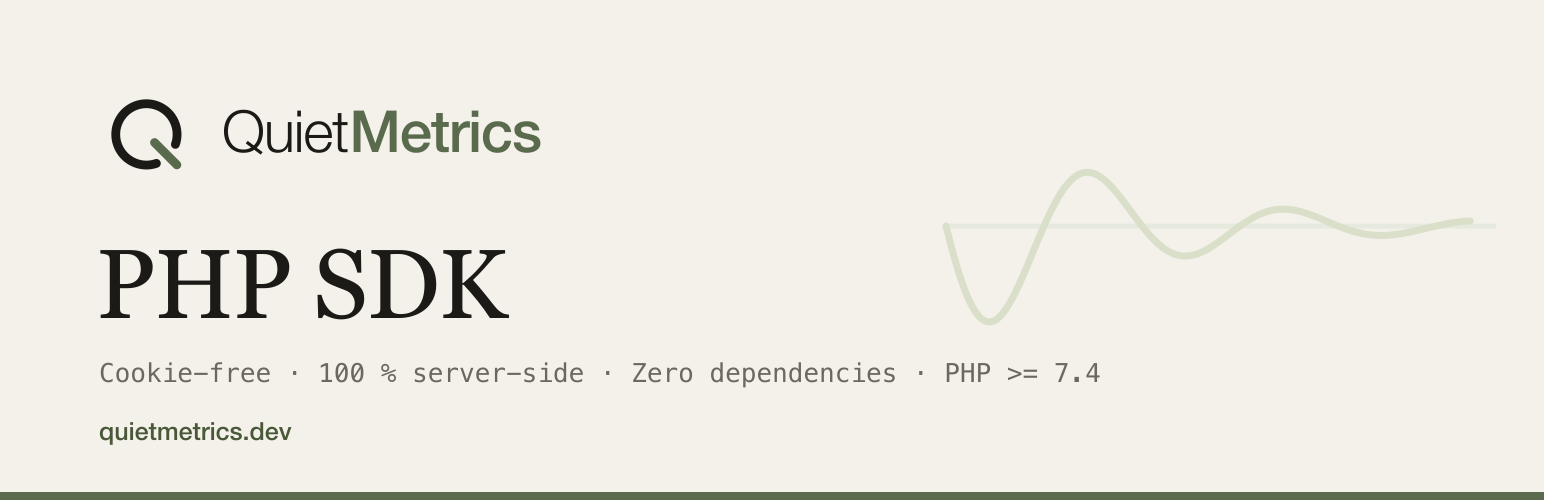
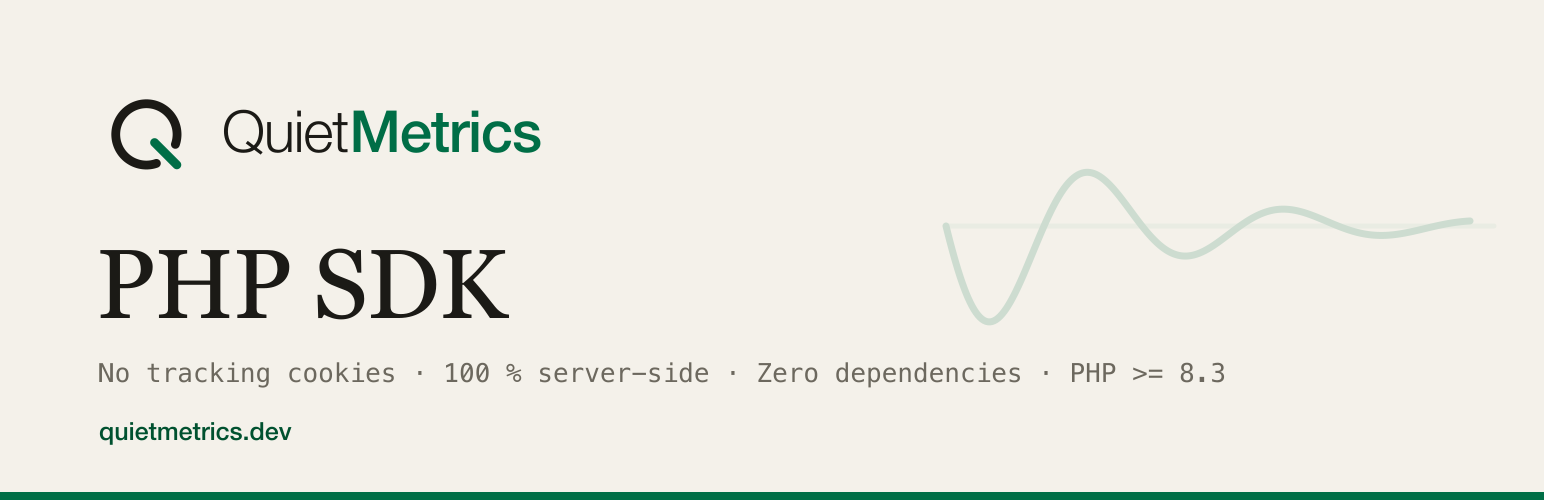
chore(paquets): PHP 8.3 minimum pour les paquets PHP et le plugin WordPress
Décision du 24/10/2026 : ne supporter que les versions de PHP encore
maintenues en sécurité (8.1 hors support depuis le 31/12/2025, 8.2 le
31/12/2026). Livré dans la 0.7.0 non publiée.

- php-metrics, laravel-metrics, symfony-metrics : "php": ">=8.3" ; les
  ponts exigent php-metrics ^0.7. Laravel 10 à 13 et Symfony 6.4/7.x
  gardés, tous tournent sur 8.3.
- Plugin WordPress : Requires PHP 8.3, et un garde qui laisse le plugin
  inactif avec un avertissement d'administration sous 8.3.
- Client : str_contains et plus de curl_close (sans effet depuis PHP 8) ;
  PHPUnit 10.5 à 12, annotations PHPUnit 9 retirées des tests.
- Documentation, changelogs, bannière du paquet php régénérée.
- VersionDuPluginWordPressTest tient le plancher aligné entre l'en-tête,
  readme.txt, le garde et le composer.json du paquet php.

diff --git a/src/Client.php b/src/Client.php
@@ -8,7 +8,7 @@ namespace QuietMetrics;
  * Client de collecte Quiet Metrics : tracking 100 % côté serveur,
  * sans cookie d'identification ni de traçabilité.
  *
- * Compatible PHP >= 7.4, zéro dépendance (adoption maximale : mutualisés,
+ * Compatible PHP >= 8.3, zéro dépendance (adoption maximale : mutualisés,
  * WordPress, vieux projets). Spec du payload : docs/05-api-et-sdk.md.
  *
  * Contrat : ne JAMAIS casser le site hôte. Tout échec est silencieux,
@@ -363,14 +363,8 @@ final class Client implements Tracker
             if ($value === null) {
                 continue;
             }
-            // `strpos` et non `str_contains` : ce fichier tient un contrat
-            // « PHP >= 7.4 » (mutualisés, WordPress, vieux projets) et
-            // `str_contains` est arrivé en 8.0. L'écart aurait été MUET :
-            // `send()` avale tout dans un `catch (\Throwable)`, donc un
-            // « Call to undefined function » y aurait simplement arrêté toute
-            // émission, sans erreur visible nulle part.
             $value = strtolower($value);
-            if (strpos($value, 'prefetch') !== false || strpos($value, 'prerender') !== false) {
+            if (str_contains($value, 'prefetch') || str_contains($value, 'prerender')) {
                 return true;
             }
         }
@@ -765,8 +759,5 @@ final class Client implements Tracker
             CURLOPT_NOSIGNAL => true,
         ]);
         @curl_exec($ch);
-        if (PHP_VERSION_ID < 80000) {
-            curl_close($ch); // sans effet et déprécié depuis PHP 8 (handle objet, libéré par le GC)
-        }
     }
 }

diff --git a/tests/ClientTest.php b/tests/ClientTest.php
@@ -116,8 +116,6 @@ final class ClientTest extends TestCase
      * fabriquait une page vue et parfois un visiteur, invisibles pour un
      * traceur JS puisque la page préchargée n'est pas activée. Le navigateur
      * l'annonce, il suffisait de le lire.
-     *
-     * @dataProvider annoncesDePrechargement
      */
     #[DataProvider('annoncesDePrechargement')]
     public function test_un_prechargement_annonce_n_envoie_aucune_page_vue(string $entete, string $valeur): void
@@ -362,8 +360,6 @@ final class ClientTest extends TestCase
      * Traiter la seule PRESENCE du cookie comme un refus ferait disparaitre
      * des visites reelles : `qm_ignore=0` est justement la trace laissee par
      * un retrait, et un cookie vide est ce que renvoient certains proxys.
-     *
-     * @dataProvider marqueursQuiNExcluentPas
      */
     #[DataProvider('marqueursQuiNExcluentPas')]
     public function test_un_marqueur_qui_ne_vaut_pas_un_laisse_partir_la_page_vue(string $valeur): void
@@ -507,8 +503,6 @@ final class ClientTest extends TestCase
      * Se contenter de la PRESENCE du cookie ferait passer pour une visite
      * continue tout ce qu'un intermediaire laisse trainer sous ce nom, et
      * fusionnerait alors deux personnes en une.
-     *
-     * @dataProvider cookiesQuiNOuvrentPasDeVisite
      */
     #[DataProvider('cookiesQuiNOuvrentPasDeVisite')]
     public function test_un_cookie_de_visite_qui_ne_vaut_pas_un_n_ouvre_rien(string $valeur): void

diff --git a/examples/qm-proxy.php b/examples/qm-proxy.php
@@ -2,7 +2,7 @@
 
 /**
  * Quiet Metrics, proxy first-party anti-adblock : fichier unique à
- * déposer à la racine du site client (aucune dépendance, PHP >= 7.4).
+ * déposer à la racine du site client (aucune dépendance, PHP >= 8.3).
  *
  * Le navigateur n'appelle QUE le domaine du site : les listes de blocage par
  * domaine (EasyPrivacy…) ne voient jamais notre endpoint. Le proxy injecte
@@ -76,9 +76,6 @@ if (function_exists('curl_init') && ($ch = curl_init(QM_ENDPOINT)) !== false) {
         CURLOPT_NOSIGNAL => true,
     ]);
     @curl_exec($ch);
-    if (PHP_VERSION_ID < 80000) {
-        curl_close($ch); // sans effet et déprécié depuis PHP 8 (handle objet, libéré par le GC)
-    }
 }
 
 http_response_code(202);

diff --git a/tests/MinimizationTest.php b/tests/MinimizationTest.php
@@ -37,7 +37,6 @@ final class MinimizationTest extends TestCase
         ];
     }
 
-    /** @dataProvider urls */
     #[DataProvider('urls')]
     public function test_l_url_ne_garde_que_ce_que_la_plateforme_lit(string $url, ?string $expected): void
     {
@@ -58,7 +57,6 @@ final class MinimizationTest extends TestCase
         ];
     }
 
-    /** @dataProvider referrers */
     #[DataProvider('referrers')]
     public function test_le_referent_se_reduit_a_son_origine(?string $referrer, ?string $expected): void
     {

diff --git a/tests/HtmlPageResponseTest.php b/tests/HtmlPageResponseTest.php
@@ -32,7 +32,6 @@ final class HtmlPageResponseTest extends TestCase
         ];
     }
 
-    /** @dataProvider responses */
     #[DataProvider('responses')]
     public function test_only_rendered_html_documents_are_pages(string $method, int $status, ?string $type, ?string $disposition, bool $expected): void
     {

diff --git a/tests/SiteVerificationTest.php b/tests/SiteVerificationTest.php
@@ -151,7 +151,6 @@ final class SiteVerificationTest extends TestCase
         ];
     }
 
-    /** @dataProvider requestsThatAreNotServed */
     #[DataProvider('requestsThatAreNotServed')]
     public function test_any_other_request_is_left_alone(string $method, string $uri): void
     {

diff --git a/README.fr.md b/README.fr.md
@@ -4,7 +4,7 @@
 
 > 🇬🇧 [English version](README.md)
 
-SDK PHP pur de [Quiet Metrics](https://quietmetrics.dev) (QuietSystems) : mesure d'audience sans cookie d'identification ni de traçabilité, envoyée à 100 % depuis votre serveur, donc invisible pour les adblockers. Zéro dépendance, compatible PHP >= 7.4 (mutualisés et WordPress inclus).
+SDK PHP pur de [Quiet Metrics](https://quietmetrics.dev) (QuietSystems) : mesure d'audience sans cookie d'identification ni de traçabilité, envoyée à 100 % depuis votre serveur, donc invisible pour les adblockers. Zéro dépendance, compatible PHP >= 8.3.
 
 C'est aussi la fondation des ponts framework : [`quiet-metrics/laravel-metrics`](https://github.com/Quiet-Metrics/laravel-metrics) et [`quiet-metrics/symfony-metrics`](https://github.com/Quiet-Metrics/symfony-metrics) dépendent de ce package.
 
@@ -144,7 +144,7 @@ if ($qm->serveSiteVerification()) {
 - **Non bloquant** : socket « write-and-forget » (environ 1 ms perçu par la page), repli cURL avec timeout de 400 ms si les sockets sortants sont désactivés.
 - **Jamais d'exception** : tout échec (endpoint injoignable, payload trop gros, contexte absent) est silencieux. L'analytics ne casse jamais le site hôte.
 
-Compatibilité : PHP >= 7.4, extension `ext-json` uniquement (`ext-curl` suggérée pour le transport de repli). Tests : `composer test` (PHPUnit contre un vrai serveur HTTP de capture, voir `tests/`).
+Compatibilité : PHP >= 8.3, extension `ext-json` uniquement (`ext-curl` suggérée pour le transport de repli). Tests : `composer test` (PHPUnit contre un vrai serveur HTTP de capture, voir `tests/`).
 
 ## Licence
 

diff --git a/README.md b/README.md
@@ -4,7 +4,7 @@
 
 > 🇫🇷 [Version française](README.fr.md)
 
-Plain-PHP SDK for [Quiet Metrics](https://quietmetrics.dev) (QuietSystems): audience measurement with no identification or tracking cookies, sent 100% from your server, hence invisible to ad blockers. Zero dependencies, compatible with PHP >= 7.4 (shared hosting and WordPress included).
+Plain-PHP SDK for [Quiet Metrics](https://quietmetrics.dev) (QuietSystems): audience measurement with no identification or tracking cookies, sent 100% from your server, hence invisible to ad blockers. Zero dependencies, compatible with PHP >= 8.3.
 
 It is also the foundation of the framework bridges: [`quiet-metrics/laravel-metrics`](https://github.com/Quiet-Metrics/laravel-metrics) and [`quiet-metrics/symfony-metrics`](https://github.com/Quiet-Metrics/symfony-metrics) depend on this package.
 
@@ -144,7 +144,7 @@ if ($qm->serveSiteVerification()) {
 - **Non-blocking**: "write-and-forget" socket (about 1 ms as perceived by the page), cURL fallback with a 400 ms timeout when outgoing sockets are disabled.
 - **Never throws**: every failure (unreachable endpoint, oversized payload, missing context) is silent. Analytics never breaks the host site.
 
-Compatibility: PHP >= 7.4, `ext-json` only (`ext-curl` suggested for the fallback transport). Tests: `composer test` (PHPUnit against a real HTTP capture server, see `tests/`).
+Compatibility: PHP >= 8.3, `ext-json` only (`ext-curl` suggested for the fallback transport). Tests: `composer test` (PHPUnit against a real HTTP capture server, see `tests/`).
 
 ## License
 

diff --git a/CHANGELOG.md b/CHANGELOG.md
@@ -3,6 +3,16 @@
 All notable changes to `quiet-metrics/php-metrics` are documented here.
 Format: [Keep a Changelog](https://keepachangelog.com/en/1.1.0/); versioning: [SemVer](https://semver.org).
 
+## [0.7.0] - Unreleased
+
+### Changed
+- **Breaking: PHP 8.3 minimum** (versions below are no longer security-supported: PHP 8.1 since 31 December 2025, PHP 8.2 from 31 December 2026). On an older PHP, Composer keeps resolving 0.6.x, which keeps working. Nothing changes in what is sent or counted.
+- Prefetch detection uses `str_contains()`, and the cURL fallback no longer calls `curl_close()`, a no-op since PHP 8.0 and deprecated in 8.5. Same in `examples/qm-proxy.php`.
+- Development: PHPUnit 10.5 to 12. The PHPUnit 9 annotations duplicating the `#[DataProvider]` attributes are gone.
+
+### Compatibility
+- Laravel and Symfony 0.7.0 require this minor version. WordPress 0.7.0 embeds the same client.
+
 ## [0.6.0] - 2026-09-28
 
 ### Added
